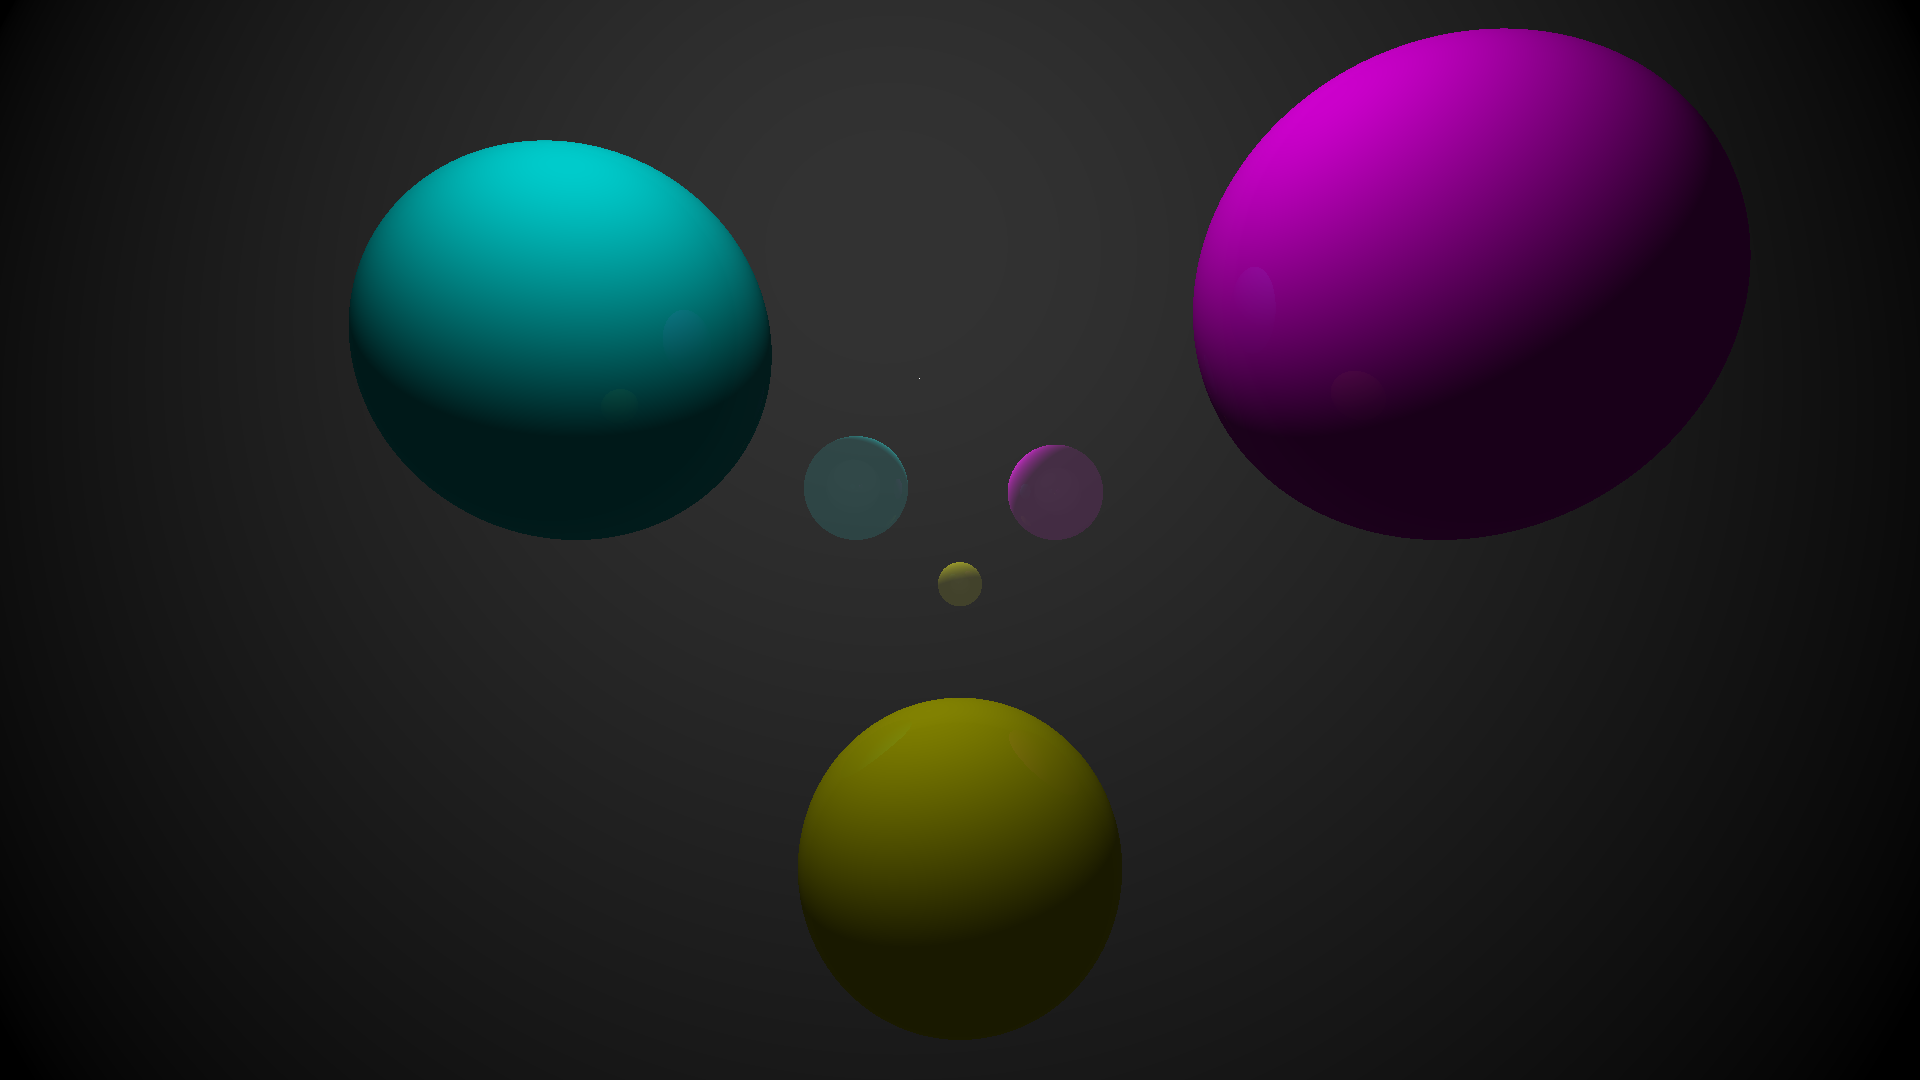
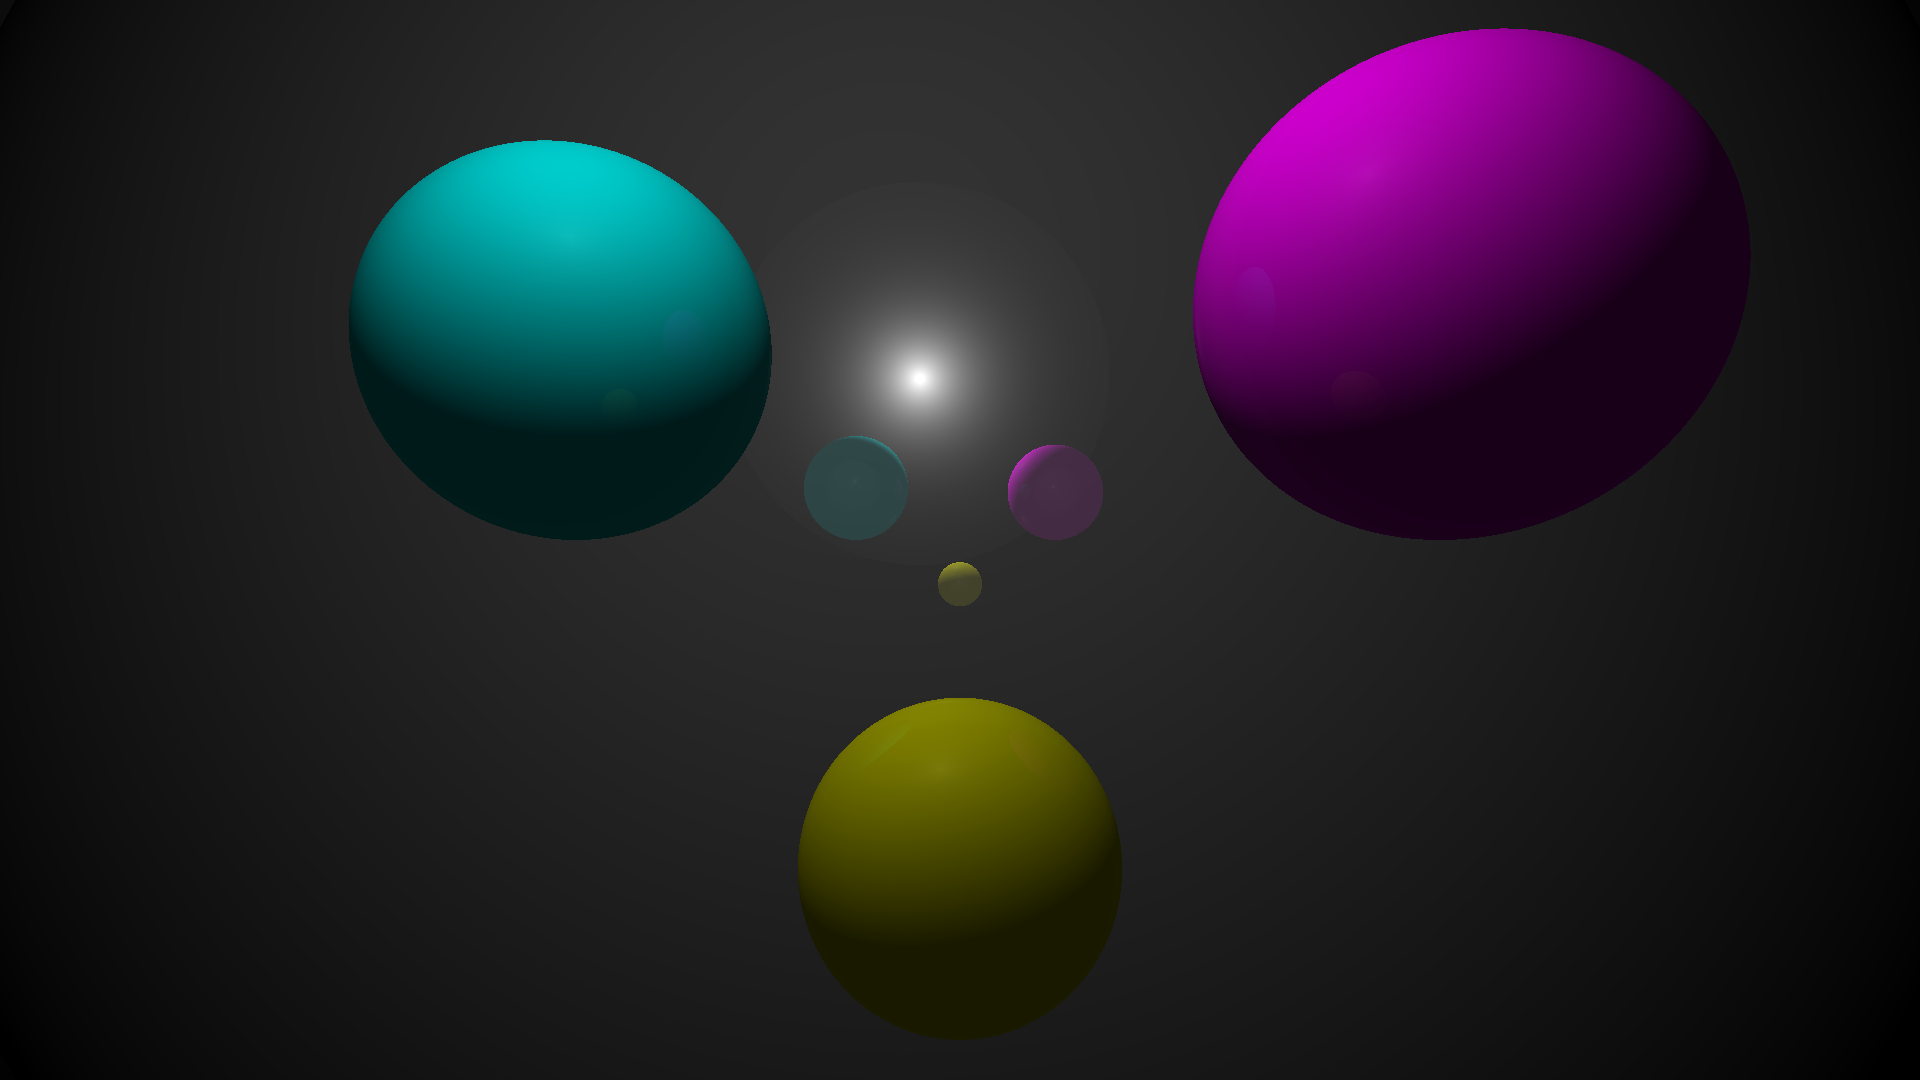
properly initialized light in demo

Changed region(s): [[0.4062, 0.2444, 0.5312, 0.4583]]

diff --git a/go-raytracing.go b/go-raytracing.go
@@ -9,7 +9,7 @@ import (
 
 func main() {
 	camera := DefaultCamera(1920, 1080)
-	light := Light{Position: Vector{-1, -4, 2}, Intensity: 1, Threshold: 0.01}
+	light := MakeLight(Vector{-1, -4, 2}, 1)
 	sphere1 := Object{
 		Shape:   Sphere{Center: Vector{0, 1, 3}, Radius: 0.5},
 		Surface: Surface{Ambient: 0.1, Diffuse: 0.4, Specular: 0.05, Color: Vector{1, 1, 0}},
